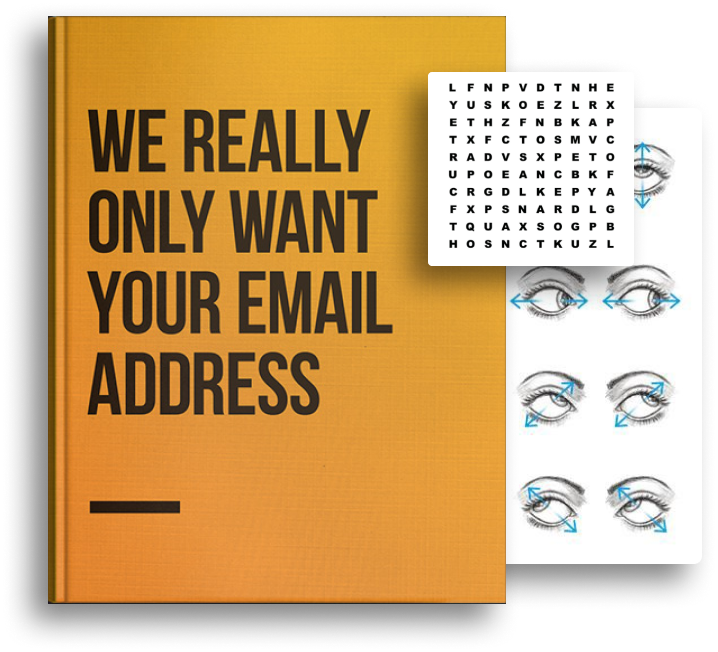
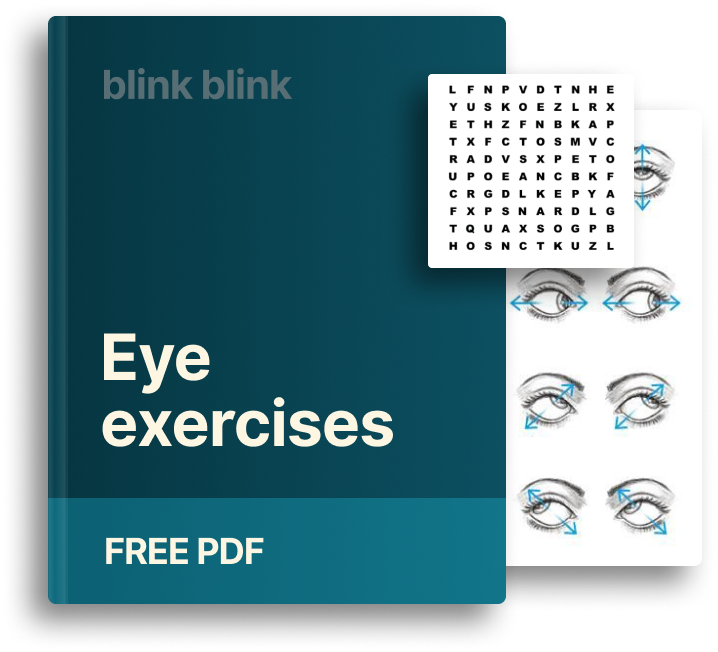
update

diff --git a/dist/index.html b/dist/index.html
@@ -79,4 +79,4 @@
   s.parentNode.insertBefore(t,s)}(window, document,'script',
   'https://connect.facebook.net/en_US/fbevents.js');
   fbq('init', '573629009479839');
-  fbq('track', 'PageView');</script><noscript><img height=1 width=1 style=display:none src="https://www.facebook.com/tr?id=573629009479839&ev=PageView&noscript=1"></noscript><link rel="shortcut icon" type=image/png href=/static/favicon.png><meta charset=utf-8><meta name=viewport content="width=device-width,initial-scale=1,user-scalable=0"><title>BlinkBlink - Learn to take care of your eyes.</title><meta name=description content="Reduce eyestrain, dry eyes and headaches with guided eye relaxation exercises."><link href=/static/css/app.f16de18b0e519894e503ab80297c4a4b.css rel=stylesheet></head><body class="d-flex flex-column h-100"><div id=app class=h-100></div><script type=text/javascript src=/static/js/manifest.2ae2e69a05c33dfc65f8.js></script><script type=text/javascript src=/static/js/vendor.20335e6ff7fd30dc890f.js></script><script type=text/javascript src=/static/js/app.a73593e4e0c9a0cf2fa7.js></script></body></html>
+  fbq('track', 'PageView');</script><noscript><img height=1 width=1 style=display:none src="https://www.facebook.com/tr?id=573629009479839&ev=PageView&noscript=1"></noscript><link rel="shortcut icon" type=image/png href=/static/favicon.png><meta charset=utf-8><meta name=viewport content="width=device-width,initial-scale=1,user-scalable=0"><title>BlinkBlink - Learn to take care of your eyes.</title><meta name=description content="Reduce eyestrain, dry eyes and headaches with guided eye relaxation exercises."><link href=/static/css/app.f16de18b0e519894e503ab80297c4a4b.css rel=stylesheet></head><body class="d-flex flex-column h-100"><div id=app class=h-100></div><script type=text/javascript src=/static/js/manifest.2ae2e69a05c33dfc65f8.js></script><script type=text/javascript src=/static/js/vendor.20335e6ff7fd30dc890f.js></script><script type=text/javascript src=/static/js/app.923e0c7fca29b4dc8b80.js></script></body></html>

diff --git a/src/components/pages/Home.vue b/src/components/pages/Home.vue
@@ -332,7 +332,7 @@
                 <img src="~@/assets/img/quote.svg" alt="Quote">
                 <p
                   class="card-text mt-24"
-                >BlinkBlink is probably the best way how to create habit to relax your eyes.</p>
+                >BlinkBlink application is probably the easiest and best way how to create a habit to relax your eyes.</p>
                 <h5 class="card-title mb-0">Serkan Gürses</h5>
                 <small>Optometrist</small>
               </div>
@@ -429,8 +429,8 @@
               </div>
 
               <div class="col-12 col-sm-6 p-32">
-                <h1>Get free e-book. Start today.</h1>
-                <p>Some short description about this ebook.</p>
+                <h1>Free PDF<br>e-book.</h1>
+                <p>Get free exercises with illustrations and descriptions.</p>
                 <div class="form-group">
                   <input
                     type="email"
